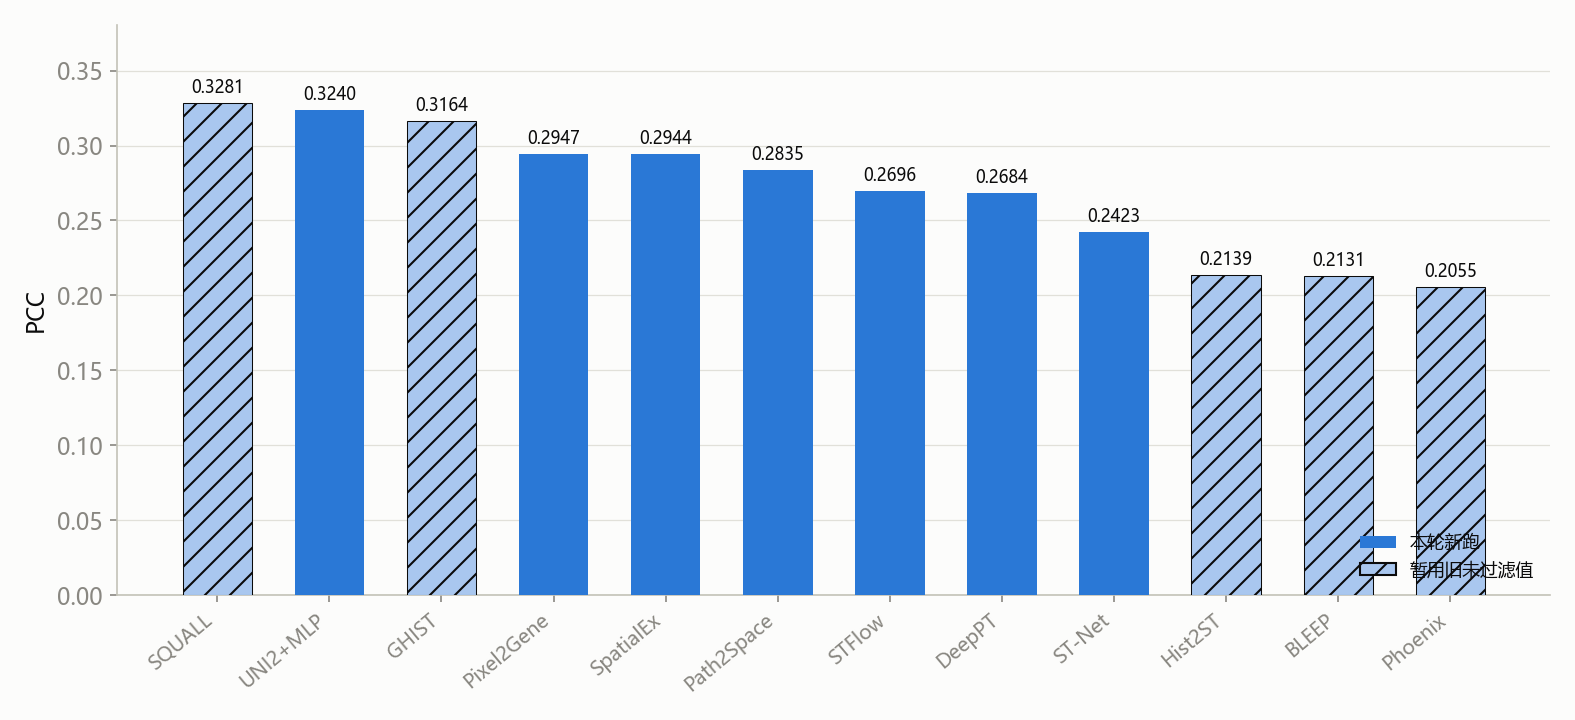
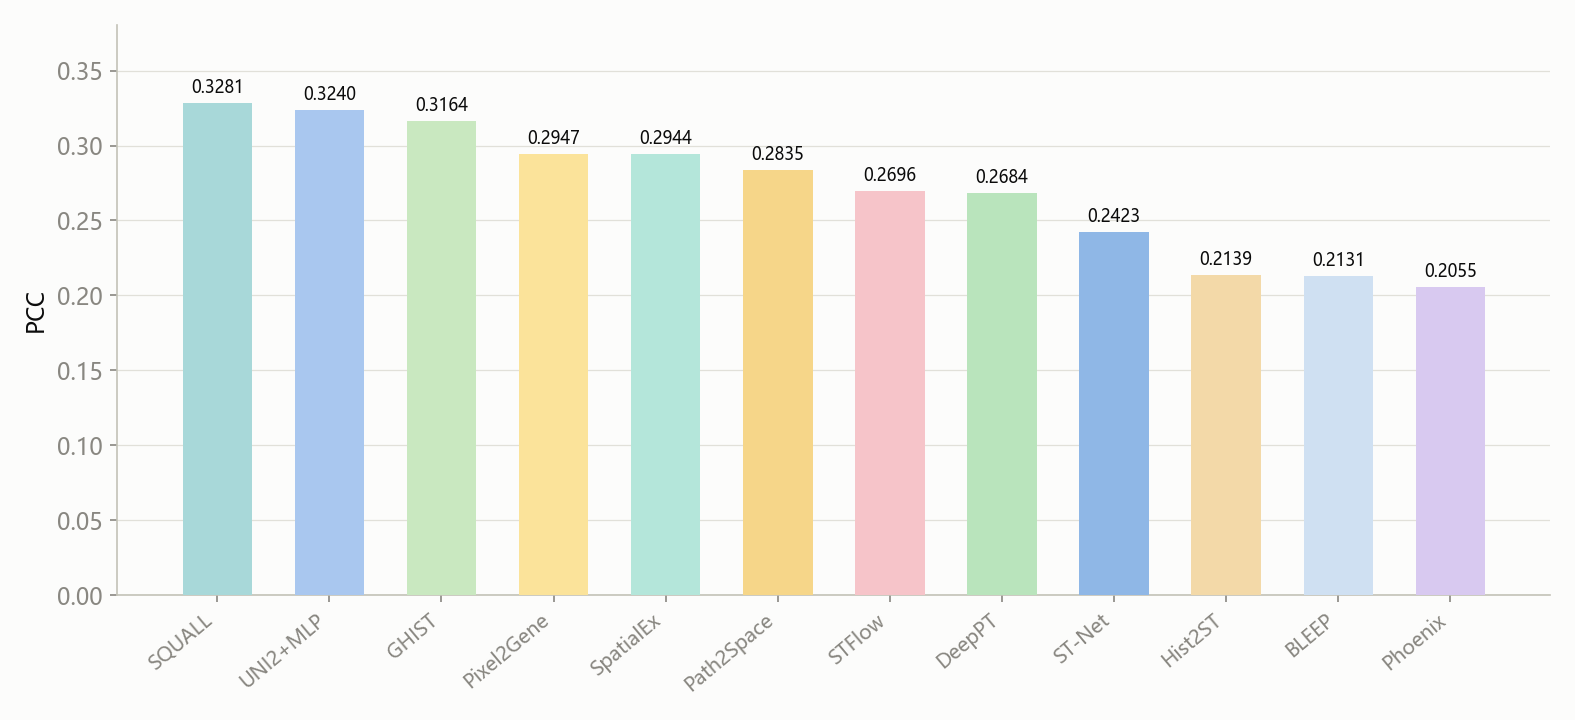
12方法柱状图: 去掉新旧区分, 全实心+清新浅色(与误差棒PCC图一致)

Changed region(s): [[0.1867, 0.1528, 0.9644, 0.825], [0.1244, 0.1528, 0.1556, 0.825]]

diff --git a/scripts/plot_he_all12.py b/scripts/plot_he_all12.py
@@ -1,8 +1,8 @@
 """为全部 12 种方法绘制 PCC / SPCC / AUROC 柱状图（普通柱状图）。
 
-新跑方法（7 个，本轮 rep1→rep2 未过滤）读本地 outputs/bench_*_unf/test_results.json；
-未跑方法（5 个）用 README 中"最初未过滤"基准的值（SQUALL/GHIST/Hist2ST/BLEEP/Phoenix）。
-实心 = 本轮新跑；浅色+斜线 = 暂用旧未过滤值。无误差棒/散点。
+新跑方法（7 个）读本地 outputs/bench_*_unf/test_results.json；
+未跑方法（5 个）用 README 中"最初未过滤"基准的值。全部同风格实心柱，
+色调沿用之前误差棒 PCC 图的清新浅色（黄、绿、蓝为主）。
 """
 import json
 import os
@@ -12,7 +12,6 @@ matplotlib.use("Agg")
 import matplotlib.pyplot as plt
 import matplotlib.font_manager as fm
 import numpy as np
-from matplotlib.patches import Patch
 
 # ---- CJK 字体 ----
 for fp in [r"C:/Windows/Fonts/msyh.ttc", r"C:/Windows/Fonts/msyhbd.ttc",
@@ -34,8 +33,23 @@ plt.rcParams.update({
     "axes.spines.top": False, "axes.spines.right": False, "font.family": "sans-serif",
 })
 
-# ---- 12 种方法：名称 → (输出目录 or None=旧值, 旧值(PCC,SPCC,AUROC)) ----
-# 新跑 7 方法读本地 test_results.json；未跑 5 方法用 README 旧未过滤值
+# ---- 12 种方法：清新浅色（黄/绿/蓝为主，与误差棒 PCC 图一致） ----
+METHOD_COLORS = {
+    "UNI2+MLP":   "#a9c7ef",   # 浅蓝
+    "Pixel2Gene": "#fbe39a",   # 浅黄
+    "SpatialEx":  "#b4e6da",   # 浅青绿
+    "Path2Space": "#f6d689",   # 浅暗黄
+    "DeepPT":     "#b9e4bc",   # 浅绿
+    "ST-Net":     "#8fb7e6",   # 中浅蓝
+    "STFlow":     "#f6c4c9",   # 浅粉
+    "Phoenix":    "#d8c9f0",   # 浅紫
+    "SQUALL":     "#a8d8d9",   # 浅青
+    "GHIST":      "#c9e8c0",   # 浅薄荷
+    "Hist2ST":    "#f3d9a8",   # 浅杏
+    "BLEEP":      "#cfe0f2",   # 浅长春花蓝
+}
+
+# ---- 旧未过滤占位值（未跑方法） ----
 PLACEHOLDER = {
     "BLEEP":   (0.2131, 0.2056, 0.666),
     "Phoenix": (0.2055, 0.1585, 0.610),
@@ -55,57 +69,46 @@ METHOD_DIRS = {
 
 
 def get_metrics(name):
-    """返回 (PCC, SPCC, AUROC, is_new)。"""
+    """返回 (PCC, SPCC, AUROC)。"""
     d = METHOD_DIRS.get(name)
     if d:
         p = os.path.join("outputs", d, "test_results.json")
         if os.path.exists(p):
             r = json.load(open(p))
-            return (r["PCC"], r["SPCC"], r["AUROC"], True)
+            return (r["PCC"], r["SPCC"], r["AUROC"])
     ph = PLACEHOLDER.get(name)
-    if ph:
-        return (ph[0], ph[1], ph[2], False)
-    return (float("nan"), float("nan"), float("nan"), False)
+    return ph if ph else (float("nan"), float("nan"), float("nan"))
 
 
 METHODS = ["UNI2+MLP", "SQUALL", "GHIST", "SpatialEx", "Pixel2Gene", "Path2Space",
            "DeepPT", "STFlow", "ST-Net", "BLEEP", "Hist2ST", "Phoenix"]
 DATA = {n: get_metrics(n) for n in METHODS}
 
-# 每个指标的柱色（实心=新跑；浅色+斜线=旧值）
 CHART_CFG = [
-    ("PCC", "#2a78d6", "#a9c7ef", "benchmark_pcc_bar_all12.png"),
-    ("SPCC", "#1baf7a", "#b4e6da", "benchmark_spcc_bar_all12.png"),
-    ("AUROC", "#eda100", "#f6d689", "benchmark_auroc_bar_all12.png"),
+    ("PCC", "benchmark_pcc_bar_all12.png"),
+    ("SPCC", "benchmark_spcc_bar_all12.png"),
+    ("AUROC", "benchmark_auroc_bar_all12.png"),
 ]
 
-for metric, solid, light, fname in CHART_CFG:
+for metric, fname in CHART_CFG:
     idx = {"PCC": 0, "SPCC": 1, "AUROC": 2}[metric]
-    items = [(n, DATA[n][idx], DATA[n][3]) for n in METHODS]
-    items.sort(key=lambda t: -t[1])                       # 按指标降序
+    items = sorted([(n, DATA[n][idx]) for n in METHODS], key=lambda t: -t[1])
     names = [t[0] for t in items]
     vals = [t[1] for t in items]
-    newf = [t[2] for t in items]
 
     fig, ax = plt.subplots(figsize=(10.5, 4.8))
     x = np.arange(len(names))
-    for xi, (v, is_new) in enumerate(zip(vals, newf)):
-        color = solid if is_new else light
-        hatch = None if is_new else "//"
-        ax.bar(xi, v, color=color, hatch=hatch, width=0.62, zorder=3,
-               edgecolor=INK if not is_new else "none", linewidth=0.5)
+    for xi, (n, v) in enumerate(zip(names, vals)):
+        ax.bar(xi, v, color=METHOD_COLORS[n], width=0.62, zorder=3)
         ax.text(xi, v + 0.004, f"{v:.4f}", ha="center", va="bottom", fontsize=8, color=INK)
     ax.set_xticks(x)
     ax.set_xticklabels(names, fontsize=9.5, rotation=40, ha="right")
     ax.set_ylabel(metric)
     ax.set_ylim(0, max(vals) * 1.16)
     ax.grid(axis="x", visible=False)
-    ax.legend(handles=[Patch(facecolor=solid, label="本轮新跑"),
-                       Patch(facecolor=light, hatch="//", edgecolor=INK, label="暂用旧未过滤值")],
-              loc="lower right", frameon=False, fontsize=8.5)
     fig.tight_layout()
     fig.savefig(fname, dpi=150)
     plt.close(fig)
     print(f"已生成 {fname}")
-    for n, v, is_new in items:
-        print(f"  {n:12s} {metric}={v:.4f}{'  (新)' if is_new else '  (旧占位)'}")
+    for n, v in items:
+        print(f"  {n:12s} {metric}={v:.4f}")
